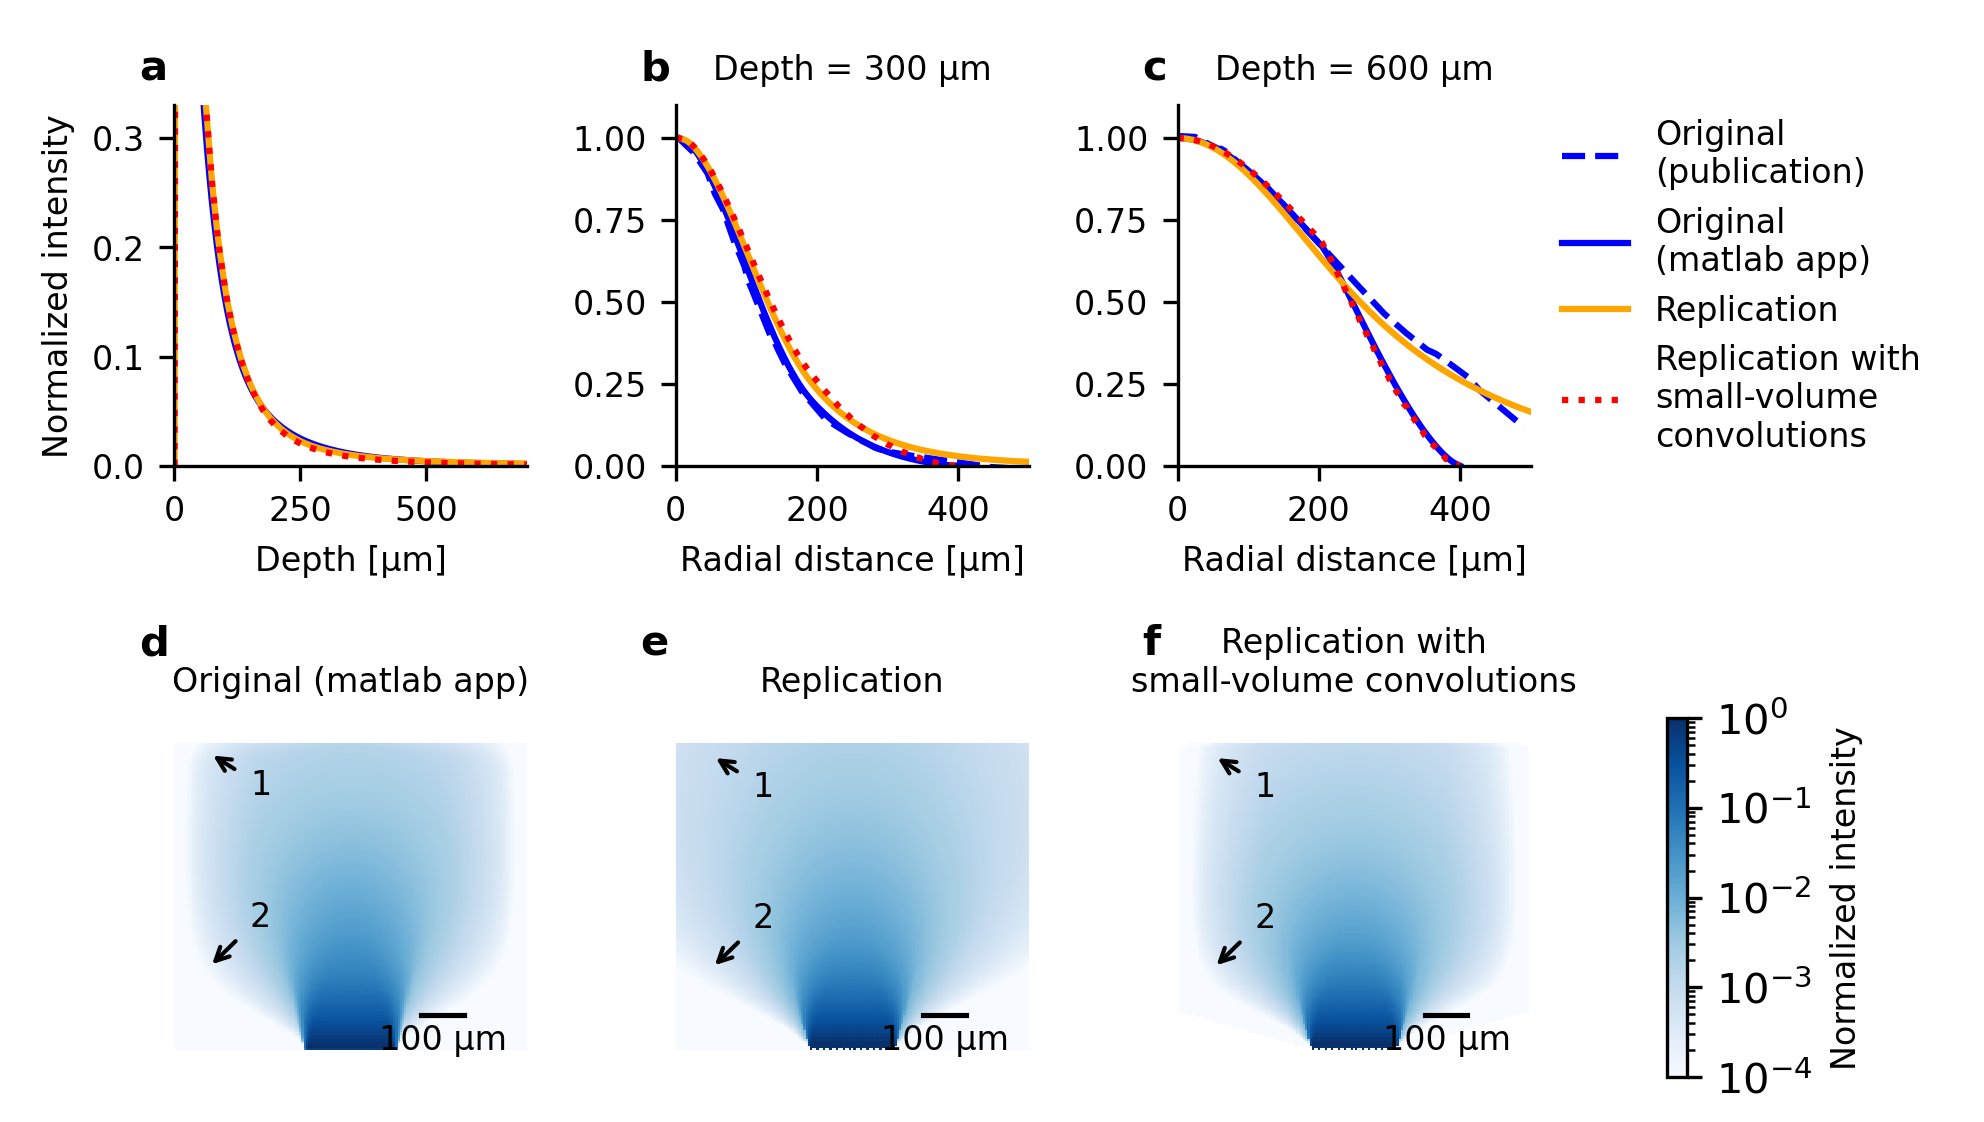
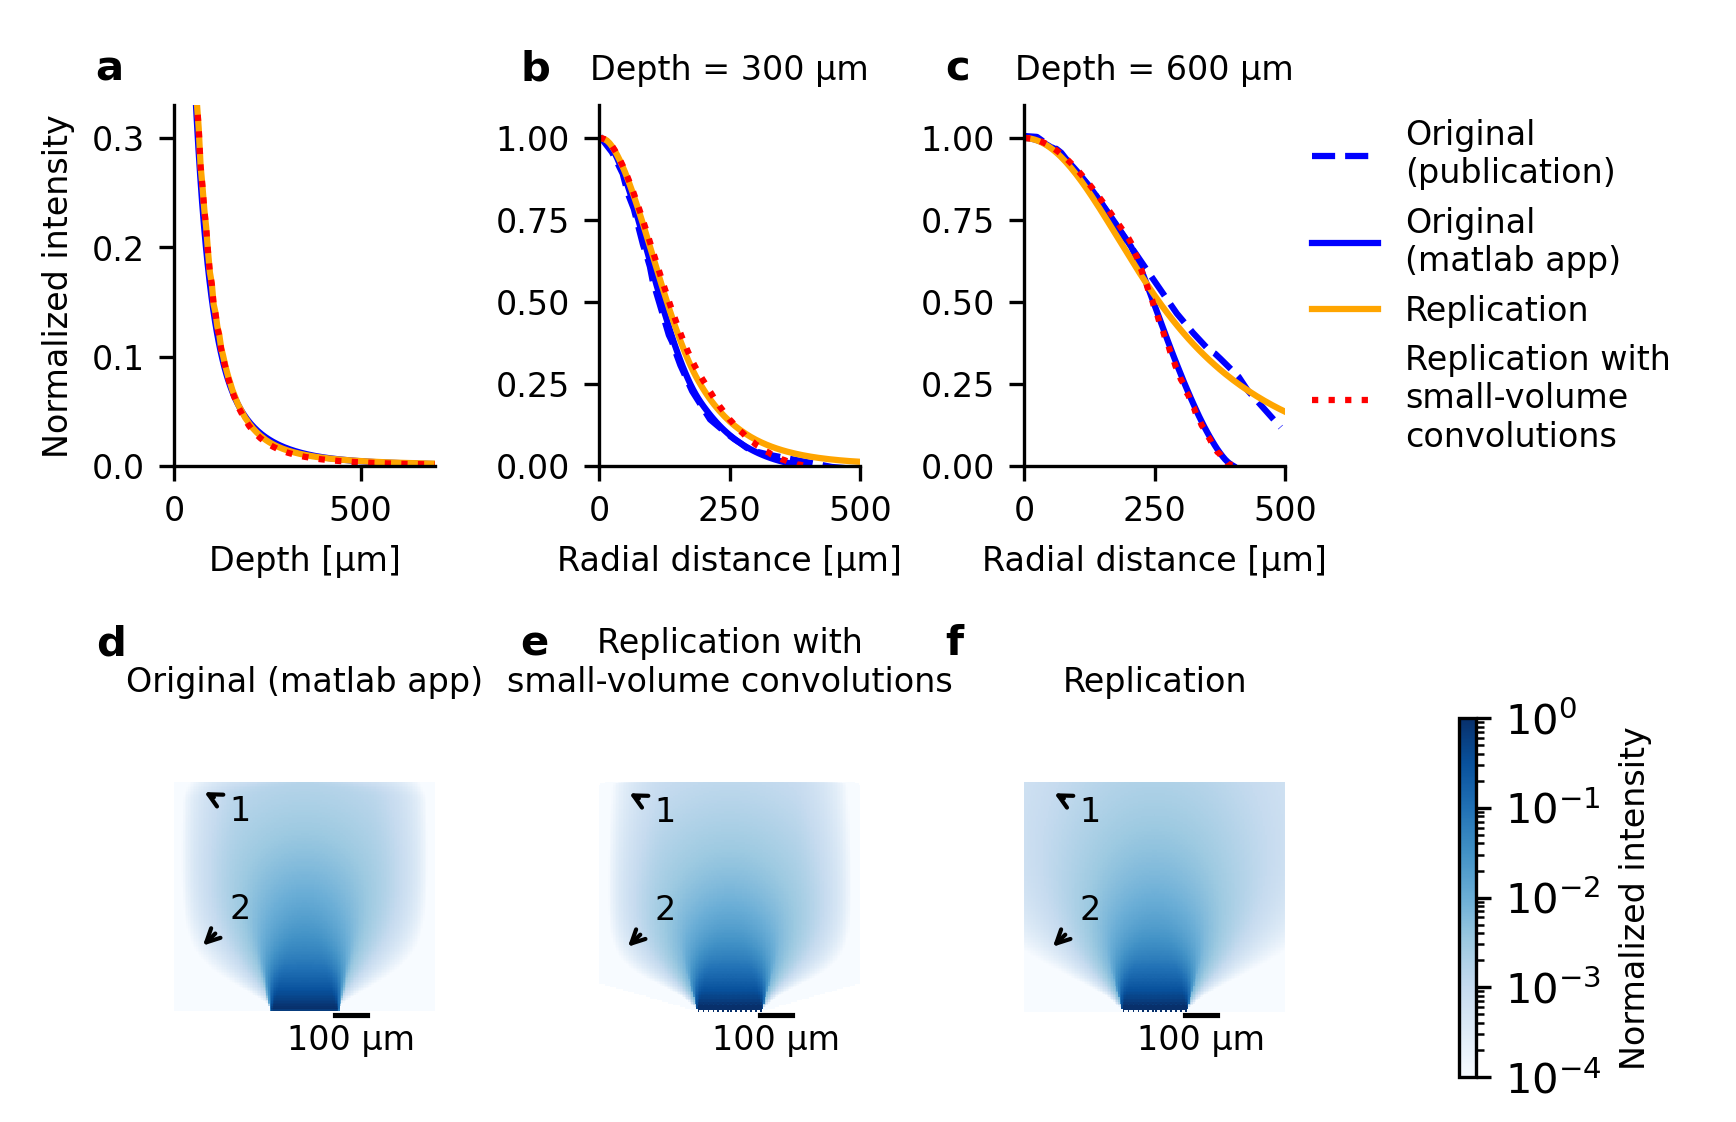
Update figures to show laptop results only

diff --git a/plot_figure4.py b/plot_figure4.py
@@ -7,89 +7,90 @@ import matplotlib.font_manager as fm
 from utils import mirror_x_axis
 import numpy as np
 
-# n_samples for simulations along radial or depth (z) direction:
-comp_time_nsmps = dict()
-comp_time_nsmps['laptop'] = [400/5, 700/5, 1000/5]
-comp_time_nsmps['cluster'] = [400/5, 700/5, 1000/5, 2000/5, 4000/5]
+# volumes for simulations along radial or depth (z) direction:
+radial_samples = np.array([0.4, 0.7, 1., 2., 4.]) * 0.7 # volume in mm3
+depth_samples = np.array([0.4, 0.7, 1., 2., 4.]) * 0.4 # vol in mm3
+
 # dictionary with computation times:
-comp_time_rad = dict()
-comp_time_rad['laptop'] = list()
-comp_time_rad['cluster'] = list()
-comp_time_z = dict()
-comp_time_z['laptop'] = list()
-comp_time_z['cluster'] = list()
-for name in ['low_vol_radial', 'default', 'high_vol_radial']:
-    comp_time_rad['laptop'].append(
-            load_pickle('results/'+name+'.pickle')['comp_time_s']
-    )
-for name in ['low_vol_z', 'normal_vol_z', 'high_vol_z']:
-    comp_time_z['laptop'].append(
-            load_pickle('results/'+name+'.pickle')['comp_time_s']
-    )
+comp_time_rad = []
+comp_time_z = []
+MaxRS_rad = []
+MaxRS_z = []
 for name in ['low_vol_radial', 'default', 'high_vol_radial', 'very_high_vol_radial', 'very_very_high_vol_radial']:
-    comp_time_rad['cluster'].append(
+    comp_time_rad.append(
             load_pickle('results/'+name+'_cluster.pickle')['comp_time_s']
+    )
+    MaxRS_rad.append(
+            load_pickle('results/'+name+'_cluster.pickle')['MaxRS_KB']
     )
 for name in ['low_vol_z', 'normal_vol_z', 'high_vol_z', 'very_high_vol_z', 'very_very_high_vol_z']:
-    comp_time_z['cluster'].append(
+    comp_time_z.append(
             load_pickle('results/'+name+'_cluster.pickle')['comp_time_s']
+    )
+    MaxRS_z.append(
+            load_pickle('results/'+name+'_cluster.pickle')['MaxRS_KB']
     )
 
 # manually stopped matlab computation time:
 comp_time_matlab = 28 # sec.
 orig_matlab = load_matlab_model_data()
-n_smps_matlab_radial, n_smps_matlab_z = np.shape(orig_matlab['zz'])
+matlab_radial_samples, matlab_depth_samples = np.shape(orig_matlab['zz'])
+matlab_radial_samples = (matlab_radial_samples * 0.005)**2 * 0.7
+matlab_depth_samples = (matlab_depth_samples * 0.005) * 0.4**2
+
 
 fs = 8
 A4_w, A4_h = 8.27, 11.69 # inch
-fig, axs = plt.subplots(ncols=2, nrows=1, figsize=(A4_w*0.8, A4_h*0.2))
+fig, axs = plt.subplots(ncols=2, nrows=1, figsize=(A4_w*0.7, A4_h*0.22))
 axs = axs.flatten()
 
-for handle, ls in zip(['laptop','cluster'], ['solid', 'dotted']):
-    axs[0].plot(
-        comp_time_nsmps[handle],
-        comp_time_rad[handle],
-        ls=ls,
-        marker='.',
-        label=handle
-    )
-    axs[1].plot(
-        comp_time_nsmps[handle],
-        comp_time_z[handle],
-        ls=ls,
-        marker='.',
-        label=handle
-    )
 axs[0].plot(
-        [n_smps_matlab_radial],
+    radial_samples,
+    comp_time_rad,
+    ls='solid',
+    marker='.',
+    label='radial'
+)
+axs[0].plot(
+    depth_samples,
+    comp_time_z,
+    ls='dashed',
+    marker='.',
+    label='depth'
+)
+axs[1].plot(
+    radial_samples,
+    np.array(MaxRS_rad)/1024**2,
+    ls='solid',
+    marker='.',
+    label='radial'
+)
+axs[1].plot(
+    depth_samples,
+    np.array(MaxRS_z)/1024**2,
+    ls='dashed',
+    marker='.',
+    label='depth'
+)
+axs[0].plot(
+        [matlab_radial_samples],
         [comp_time_matlab],
         marker='x',
         ls=None,
         color='tab:red'
 )
 axs[0].annotate(
-        'Original model', xy=(n_smps_matlab_radial, comp_time_matlab), 
-        xytext=(n_smps_matlab_radial + 10, comp_time_matlab + 1),
+        'Original model', xy=(matlab_radial_samples, comp_time_matlab), 
+        xytext=(matlab_radial_samples + 10, comp_time_matlab + 1),
         color='black',
         fontsize=fs
 ) 
-axs[1].plot(
-        [n_smps_matlab_z],
-        [comp_time_matlab],
-        marker='x',
-        ls=None,
-        color='tab:red'
-)
-axs[1].annotate(
-        'Original model', xy=(n_smps_matlab_z, comp_time_matlab), 
-        xytext=(n_smps_matlab_z + 10, comp_time_matlab + 1),
-        color='black',
-        fontsize=fs
-) 
-axs[1].legend(fontsize=fs, loc='upper right', borderaxespad=0., frameon=False)
+axs[0].text(0.7, 0.3, r'$\Delta=5\mu$m', transform=axs[0].transAxes, fontsize=fs)
+axs[1].legend(fontsize=fs, loc='lower right', borderaxespad=0., frameon=False)
 axs[0].set_ylabel('Computing time [s]', fontsize=fs)
-axs[0].set_xlabel('# radial samples', fontsize=fs)
-axs[1].set_xlabel('# depth samples', fontsize=fs)
+axs[1].set_ylabel('Physical memory consumption [GB]', fontsize=fs)
+for ax in axs:
+    ax.set_xlabel(r'Simulated $\rho$-z-plane [mm²]', fontsize=fs)
 
 for ax in axs:
     ax.spines['right'].set_visible(False)
@@ -98,6 +99,6 @@ for ax in axs:
 # insert letters:
 for ax, letter in zip(axs[:], ['a', 'b']):
     ax.text(-0.1, 1.07, letter, fontsize=10, fontweight='bold', color='black', transform=ax.transAxes)
-plt.tight_layout()
+plt.subplots_adjust(bottom=0.2)  # Increase bottom margin if needed
 fig.savefig('figures/figure4.png', dpi=300)
 plt.close()

diff --git a/plot_figure2.py b/plot_figure2.py
@@ -1,10 +1,10 @@
 from load_save_utils import load_pickle, load_yaml
-from load_original import load_published_exp_data
+from load_original import load_published_exp_data, load_published_model_data
 import matplotlib.pyplot as plt
 
 labels = ['Approximation by\nLutomirski et al.', 
-          'Approximation by\nvan de Hulst & Kattawar', 
-          'Prec. calc. of µ and\napprox. relation of σ to µ']
+          'Approximation by\nvan de Hulst and\nKattawar', 
+          'Prec. calc. of µ\nand approximate\nrelation of σ to µ']
 linestyles = ['dotted', 'dashed', 'solid']
 colors = ['tab:orange','tab:blue', 'tab:green']
 replication_paramss = [
@@ -16,20 +16,23 @@ replications = [
 ]
 
 orig_exp_depth, orig_exp_radial = load_published_exp_data()
+orig_mod_depth, orig_mod_radial = load_published_model_data()
 
 fs = 8
 A4_w, A4_h = 8.27, 11.69 # inch
-fig, axs = plt.subplots(ncols=3, figsize=(A4_w*0.8, A4_h*0.2))
+fig, axs = plt.subplots(ncols=2, nrows=2, figsize=(A4_w*0.7, A4_h*0.4))
+axs = axs.flatten()
+axs[1].axis('off')
+axs = [axs[0], axs[2], axs[3]]
 #axs[3].axis('off')
 # model
 # tranmission over depth
 for replication, replication_params, label, ls, color in zip(replications, replication_paramss, labels, linestyles, colors):
     axs[0].plot(
-        replication['z'][0, :],
-        replication['combined'][0, :],
+        replication['z'][1, :],
+        replication['combined'][1, :],
         ls=ls, 
         color=color, 
-        label=label
     )
     # transmission over radial distance
     z300 = int(300/replication_params['dz'])
@@ -37,7 +40,6 @@ for replication, replication_params, label, ls, color in zip(replications, repli
         replication['rho'][:, z300], 
         replication['combined'][:, z300]/replication['combined'][0, z300],
         ls=ls, color=color, 
-        label=label
     )
     z600 = int(600/replication_params['dz'])
     axs[2].plot(
@@ -53,7 +55,6 @@ axs[0].errorbar(
     orig_exp_depth['z'],
     orig_exp_depth['transmission'],
     yerr=orig_exp_depth['transmission_err'],
-    label='Experiment', 
     marker='x',
     color='black', 
     linestyle='',
@@ -64,13 +65,23 @@ axs[1].plot(
     orig_exp_radial['x_z300'],
     orig_exp_radial['transmission_z300'],
     marker='x',c='black', linestyle='',
-    label='Experiment', 
+)
+axs[1].plot(
+    orig_mod_radial['x_z300'],
+    orig_mod_radial['transmission_z300'],
+    ls='solid', color='black', 
 )
 axs[2].plot(
     orig_exp_radial['x_z600'],
     orig_exp_radial['transmission_z600'],
     marker='x',c='black', linestyle='',
     label='Experiment', 
+)
+axs[2].plot(
+    orig_mod_radial['x_z600'],
+    orig_mod_radial['transmission_z600'],
+    ls='solid', color='black',
+    label='Original model'
 )
 
 # ax properties
@@ -93,12 +104,12 @@ for ax in axs[1:]:
 
 for ax in axs:
     ax.tick_params(axis='both', which='major', labelsize=fs)
-axs[-1].legend(fontsize=fs, bbox_to_anchor=(1.05, 1), loc='upper left', borderaxespad=0., frameon=False)
+fig.legend(loc="upper right", bbox_to_anchor=(0.9, .95), frameon=False, fontsize=fs)
 
 
 # insert letters:
 for ax, letter in zip(axs, ['a','b', 'c']):
-    ax.text(-0.1, 1.05, letter, fontsize=10, fontweight='bold', color='black', transform=ax.transAxes)
+    ax.text(-0.2, 1.05, letter, fontsize=10, fontweight='bold', color='black', transform=ax.transAxes)
 plt.tight_layout()
 fig.savefig('figures/figure2.png', dpi=300)
 plt.close()

diff --git a/plot_figure3.py b/plot_figure3.py
@@ -16,27 +16,27 @@ orig_matlab = load_matlab_model_data()
 
 fs = 8
 A4_w, A4_h = 8.27, 11.69 # inch
-fig, axs = plt.subplots(ncols=3, nrows=2, figsize=(A4_w*0.8, A4_h*0.32))
+fig, axs = plt.subplots(ncols=3, nrows=2, figsize=(A4_w*0.7, A4_h*0.32))
 axs = axs.flatten()
    
 # tranmission over depth
 axs[0].plot(
-    orig_matlab['zz'][0, :],
-    orig_matlab['data'][0, :],
+    orig_matlab['zz'][1, :],
+    orig_matlab['data'][1, :],
     ls='solid', 
     color='blue', 
     label='Original\n(matlab app)'
 )
 axs[0].plot(
-    replication['z'][0, :],
-    replication['combined'][0, :],
+    replication['z'][1, :],
+    replication['combined'][1, :],
     ls='solid', 
     color='orange', 
     label='Replication'
 )
 axs[0].plot(
-    replication_err['z'][0, :],
-    replication_err['combined'][0, :],
+    replication_err['z'][1, :],
+    replication_err['combined'][1, :],
     ls='dotted', color='red', 
     label='Replication with\nsmall-volume\nconvolutions'
 )
@@ -127,10 +127,10 @@ def plot_2D(x, z, data, ax, **kws):
 
 axs[3].set_title('Original (matlab app)', fontsize=fs)
 plot_2D(orig_matlab['xx'], orig_matlab['zz'], orig_matlab['data'], axs[3])
-axs[4].set_title('Replication', fontsize=fs)
-plot_2D(replication['rho'], replication['z'], replication['combined'], axs[4])
-axs[5].set_title('Replication with\nsmall-volume convolutions', fontsize=fs)
-mapp = plot_2D(replication_err['rho'], replication_err['z'], replication_err['combined'], axs[5])
+axs[4].set_title('Replication with\nsmall-volume convolutions', fontsize=fs)
+mapp = plot_2D(replication_err['rho'], replication_err['z'], replication_err['combined'], axs[4])
+axs[5].set_title('Replication', fontsize=fs)
+plot_2D(replication['rho'], replication['z'], replication['combined'], axs[5])
 
 
 for ax in axs[3:]:
@@ -176,9 +176,9 @@ for ax in axs[3:]:
 
 # insert letters:
 for ax, letter in zip(axs[:3], ['a', 'b', 'c']):
-    ax.text(-0.1, 1.07, letter, fontsize=10, fontweight='bold', color='black', transform=ax.transAxes)
+    ax.text(-0.3, 1.07, letter, fontsize=10, fontweight='bold', color='black', transform=ax.transAxes)
 for ax, letter in zip(axs[3:],['d', 'e', 'f']):
-    ax.text(-0.1, 1.17, letter, fontsize=10, fontweight='bold', color='black', transform=ax.transAxes)
+    ax.text(-0.3, 1.17, letter, fontsize=10, fontweight='bold', color='black', transform=ax.transAxes)
 plt.tight_layout()
 fig.savefig('figures/figure3.png', dpi=300)
 plt.close()

diff --git a/plot_figure1.py b/plot_figure1.py
@@ -9,7 +9,7 @@ orig_mod_depth, orig_mod_radial = load_published_model_data()
 
 fs = 8
 A4_w, A4_h = 8.27, 11.69 # inch
-fig, axs = plt.subplots(ncols=3, figsize=(A4_w*0.8, A4_h*0.2))
+fig, axs = plt.subplots(ncols=3, figsize=(A4_w*0.7, A4_h*0.2))
 
    
 # tranmission over depth
